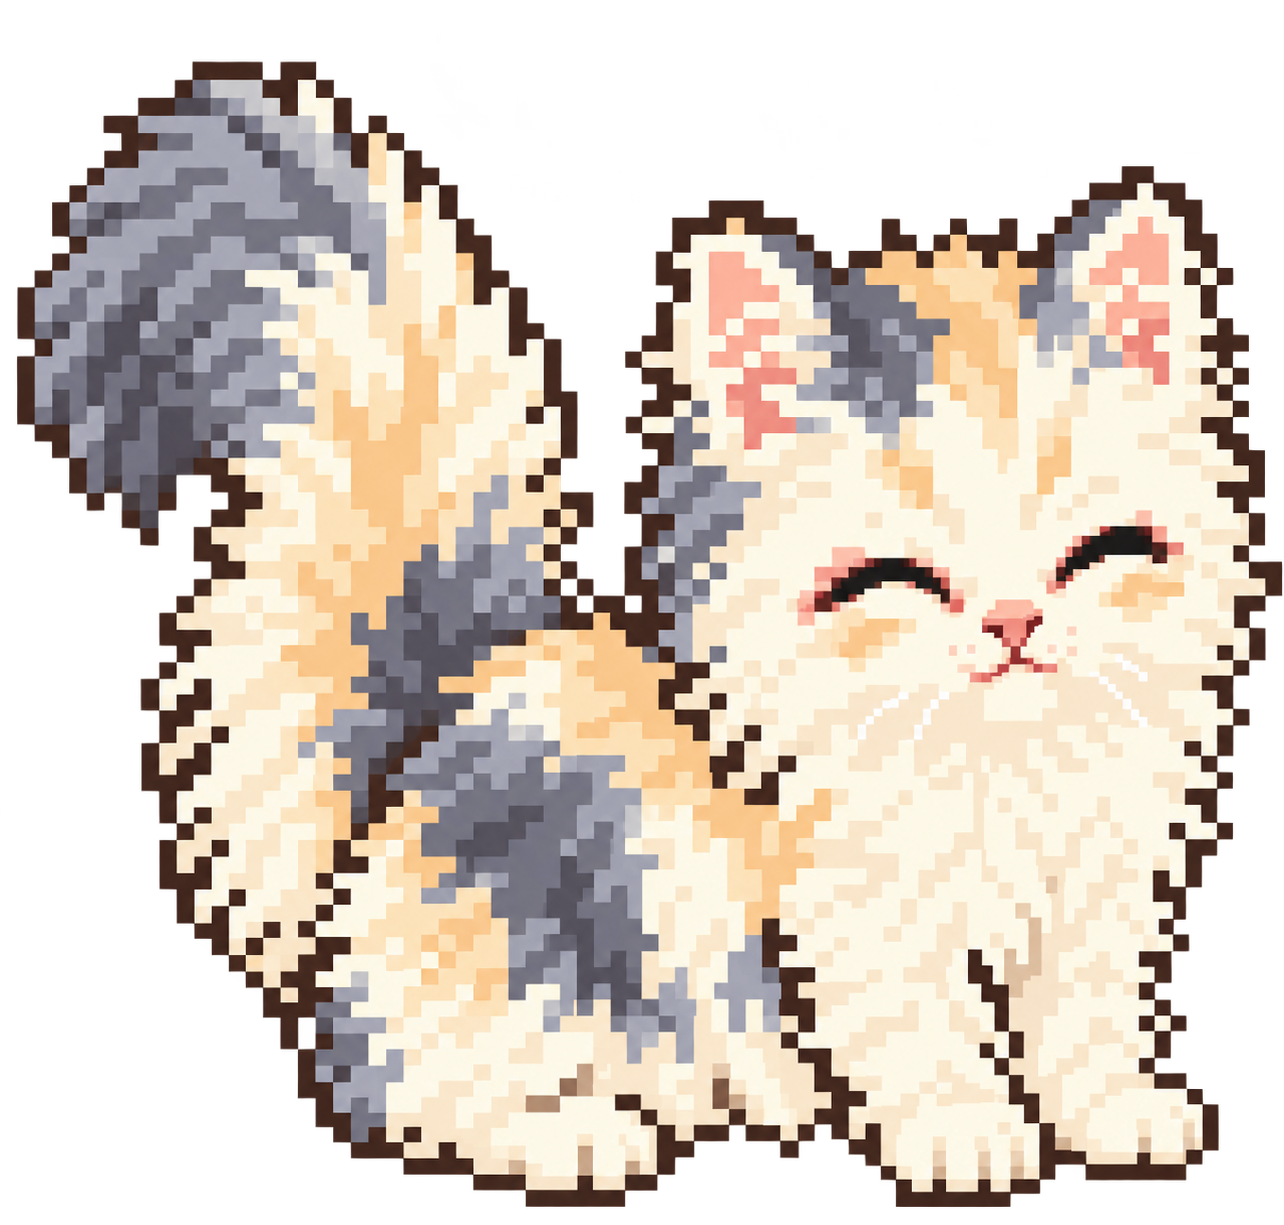
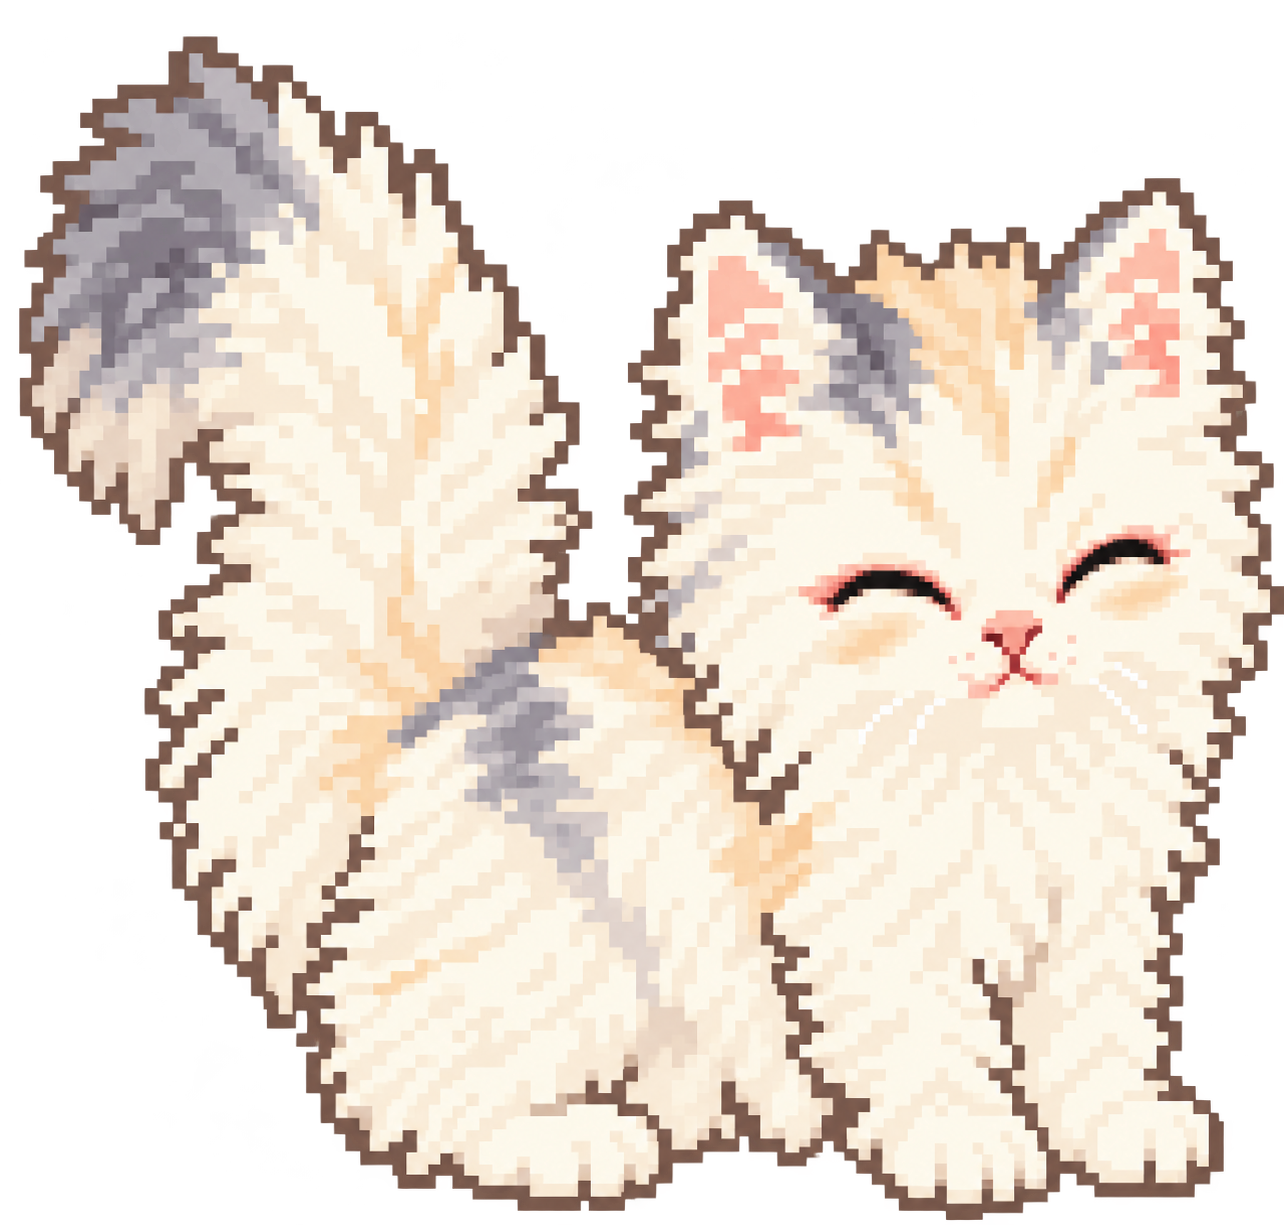
Refine Lucky's ivory pixel markings

diff --git a/app.js b/app.js
@@ -1,5 +1,5 @@
-import { site, notes } from './content.js?v=lucky-pixel-1';
-import { renderAlbum, mountAlbum, destroyAlbum } from './album.js?v=lucky-pixel-1';
+import { site, notes } from './content.js?v=lucky-pixel-2';
+import { renderAlbum, mountAlbum, destroyAlbum } from './album.js?v=lucky-pixel-2';
 
 const main = document.querySelector('main');
 const dialog = document.querySelector('.lightbox');
@@ -15,9 +15,9 @@ const albumCount = `${String(notes.filter(note => note.video).length).padStart(2
 
 function renderCharacter() {
   return `<section class="character-view" aria-labelledby="character-title">
-    <div class="character-hero"><div class="character-copy"><p class="character-kicker">LUCKY / PIXEL PORTRAIT</p><h1 id="character-title">Lucky 的<br>像素模样</h1><p class="character-lead">三个月大的三花小姑娘，奶白色的长毛间藏着烟灰与浅杏。照着她的照片，一格一格留下圆眼睛、粉鼻子，还有那条长长的蓬松尾巴。</p><ul class="character-traits" aria-label="Lucky 的特征"><li>三个月</li><li>母三花</li><li>长尾巴</li></ul><a class="character-back" href="#/">回到相册 <span aria-hidden="true">↗</span></a></div><figure class="character-portrait"><img src="assets/lucky-pixel-idle.png" alt="Lucky 本猫的像素形象：四脚站着的长毛小三花，奶白色为主，带烟灰和浅杏斑块、粉色鼻子，完整的灰尖蓬松长尾巴向上弯起" width="1284" height="1225"><figcaption>根据 Lucky 照片创作的像素小猫</figcaption></figure></div>
+    <div class="character-hero"><div class="character-copy"><p class="character-kicker">LUCKY / PIXEL PORTRAIT</p><h1 id="character-title">Lucky 的<br>像素模样</h1><p class="character-lead">三个月大的三花小姑娘，奶白色的长毛间藏着烟灰与浅杏。照着她的照片，一格一格留下圆眼睛、粉鼻子，还有那条长长的蓬松尾巴。</p><ul class="character-traits" aria-label="Lucky 的特征"><li>三个月</li><li>母三花</li><li>长尾巴</li></ul><a class="character-back" href="#/">回到相册 <span aria-hidden="true">↗</span></a></div><figure class="character-portrait"><img src="assets/lucky-pixel-idle.png?v=2" alt="Lucky 本猫的像素形象：四脚站着的长毛小三花，奶白色为主，带烟灰和浅杏斑块、粉色鼻子，完整的灰尖蓬松长尾巴向上弯起" width="1284" height="1225"><figcaption>根据 Lucky 照片创作的像素小猫</figcaption></figure></div>
     <div class="character-origin"><div class="character-origin-photos"><figure><img src="assets/lucky-photo-03.jpg" alt="真实的 Lucky 仰面躺着，露出粉色鼻子与毛茸茸的爪子" width="719" height="1280" loading="lazy"><figcaption>圆脸和小爪爪</figcaption></figure><figure><img src="assets/lucky-photo-09.jpg" alt="真实的 Lucky 站在桌边，可以看到身上的三花斑块和长尾巴" width="720" height="1280" loading="lazy"><figcaption>三花与长尾巴</figcaption></figure></div><div class="character-origin-copy"><p class="character-kicker">A LITTLE BIT OF LUCKY</p><h2>一眼就认得出你</h2><p>奶白色绒毛、灰色耳尖与背上的浅杏斑块，都从 Lucky 的照片里仔细找来。像素形象保留四脚幼猫的模样，也把灰尖长尾巴完整画了出来。</p><a href="#/notes">去看 Lucky 的真实日常 <span aria-hidden="true">↗</span></a></div></div>
-    <div class="character-stickers"><div class="character-stickers-heading"><p class="character-kicker">LUCKY / PIXEL MOMENTS</p><h2>Lucky 的像素小表情</h2><p>抬抬爪，再打个小盹。</p></div><div class="character-sticker-grid"><figure><img src="assets/lucky-pixel-hello.png" alt="像素小三花 Lucky 抬起一只前爪，蓬松的长尾巴露在身旁" loading="lazy"><figcaption>你好呀</figcaption></figure><figure><img src="assets/lucky-pixel-sleep.png" alt="像素小三花 Lucky 闭眼蜷卧，灰尖长尾巴蜷在身边" loading="lazy"><figcaption>困困啦</figcaption></figure></div></div>
+    <div class="character-stickers"><div class="character-stickers-heading"><p class="character-kicker">LUCKY / PIXEL MOMENTS</p><h2>Lucky 的像素小表情</h2><p>抬抬爪，再打个小盹。</p></div><div class="character-sticker-grid"><figure><img src="assets/lucky-pixel-hello.png?v=2" alt="像素小三花 Lucky 抬起一只前爪，蓬松的长尾巴露在身旁" loading="lazy"><figcaption>你好呀</figcaption></figure><figure><img src="assets/lucky-pixel-sleep.png?v=2" alt="像素小三花 Lucky 闭眼蜷卧，灰尖长尾巴蜷在身边" loading="lazy"><figcaption>困困啦</figcaption></figure></div></div>
   </section>`;
 }
 

diff --git a/album.js b/album.js
@@ -1,4 +1,4 @@
-import { notes } from './content.js?v=lucky-pixel-1';
+import { notes } from './content.js?v=lucky-pixel-2';
 
 const reduced = window.matchMedia?.('(prefers-reduced-motion: reduce)');
 const finePointer = window.matchMedia?.('(hover: hover) and (pointer: fine)');
@@ -57,7 +57,7 @@ function cover() {
     <p class="cover-edition">THE LITTLE ALBUM · 2026</p><h2 class="cover-title">Lucky<span>的日常</span></h2><p class="cover-description">有 Lucky 的普通日子。</p>
     <button class="cover-open" type="button" data-book-action="open">翻开相册</button><button class="cover-skip" type="button" data-book-action="skip">直接浏览</button><a class="cover-character-link" href="#/character">认识画里的 Lucky <span aria-hidden="true">↗</span></a>
     <p class="cover-count">${number(notes.length)} 个片段 · ${number(videoCount)} 段视频 · ${number(photoCount)} 张照片</p>
-    </div><div class="cover-collage" aria-hidden="true"><div class="cover-photo cover-photo-main"><img src="${portrait.photo}" alt="" width="${portrait.width}" height="${portrait.height}" draggable="false"><span>hello, Lucky.</span></div><div class="cover-photo cover-photo-character"><img src="assets/lucky-pixel-idle.png" alt="" width="1284" height="1225" draggable="false"><span>像素 Lucky</span></div></div>
+    </div><div class="cover-collage" aria-hidden="true"><div class="cover-photo cover-photo-main"><img src="${portrait.photo}" alt="" width="${portrait.width}" height="${portrait.height}" draggable="false"><span>hello, Lucky.</span></div><div class="cover-photo cover-photo-character"><img src="assets/lucky-pixel-idle.png?v=2" alt="" width="1284" height="1225" draggable="false"><span>像素 Lucky</span></div></div>
     </div></div>`;
 }
 
@@ -68,7 +68,7 @@ export function renderAlbum() {
   const visible=items.slice(page*4,page*4+4);
   return `<section class="album-experience" aria-label="Lucky 的贴纸相册">
     <div class="album-heading"><div><p class="eyebrow">A LITTLE COLLECTION</p><h1>Lucky 的小相册</h1></div><span class="album-total">${videoCount} 段视频 · ${photoCount} 张照片</span></div>
-    <a class="character-teaser" href="#/character"><span class="character-teaser-art"><img src="assets/lucky-pixel-hello.png" alt="" width="1284" height="1225"></span><span class="character-teaser-copy"><strong>像素 Lucky</strong><span>认识三花小姑娘的像素形象</span></span><span class="character-teaser-arrow" aria-hidden="true">↗</span></a>
+    <a class="character-teaser" href="#/character"><span class="character-teaser-art"><img src="assets/lucky-pixel-hello.png?v=2" alt="" width="1284" height="1225"></span><span class="character-teaser-copy"><strong>像素 Lucky</strong><span>认识三花小姑娘的像素形象</span></span><span class="character-teaser-arrow" aria-hidden="true">↗</span></a>
     <div class="chapter-tabs" role="group" aria-label="相册章节">${chapters.map((item,index)=>`<button type="button" class="chapter-tab" data-chapter="${item.id}" aria-pressed="${item.id===chapter}"><span class="chapter-index">${number(index)}</span>${escape(item.name)}</button>`).join('')}</div>
     <div class="book-stage ${opened?'is-open':'is-closed'} ${opening?'is-opening':''}" tabindex="0" aria-label="相册第 ${page+1} 页，共 ${pages} 页，使用方向键翻页">
       <div class="book-spread" ${opened?'':'inert aria-hidden="true"'}>${bookPage(visible.slice(0,2),'left')}${bookPage(visible.slice(2),'right')}</div>

diff --git a/index.html b/index.html
@@ -8,10 +8,10 @@
   <meta name="description" content="Lucky 的小相册：三个月大的长尾三花小姑娘，照片、视频、像素形象和会互动的网页小猫。">
   <link rel="icon" href="assets/favicon.svg" type="image/svg+xml">
   <link rel="stylesheet" href="styles.css">
-  <link rel="stylesheet" href="album.css?v=lucky-pixel-1">
-  <link rel="stylesheet" href="pet.css?v=lucky-pixel-1">
-  <script type="module" src="app.js?v=lucky-pixel-1"></script>
-  <script type="module" src="pet.js?v=lucky-pixel-1"></script>
+  <link rel="stylesheet" href="album.css?v=lucky-pixel-2">
+  <link rel="stylesheet" href="pet.css?v=lucky-pixel-2">
+  <script type="module" src="app.js?v=lucky-pixel-2"></script>
+  <script type="module" src="pet.js?v=lucky-pixel-2"></script>
 </head>
 <body>
   <a class="skip-link" href="#main">跳到内容</a>

diff --git a/pet.js b/pet.js
@@ -2,11 +2,11 @@
 // and whether the visitor chose to keep the widget visible or quiet.
 const STORAGE_KEY = 'lucky-web-pet-v1';
 const SPRITES = Object.freeze({
-  idle: 'assets/lucky-pixel-idle.png',
-  blink: 'assets/lucky-pixel-blink.png',
-  hello: 'assets/lucky-pixel-hello.png',
-  play: 'assets/lucky-pixel-play.png',
-  sleep: 'assets/lucky-pixel-sleep.png'
+  idle: 'assets/lucky-pixel-idle.png?v=2',
+  blink: 'assets/lucky-pixel-blink.png?v=2',
+  hello: 'assets/lucky-pixel-hello.png?v=2',
+  play: 'assets/lucky-pixel-play.png?v=2',
+  sleep: 'assets/lucky-pixel-sleep.png?v=2'
 });
 let saved = {};
 try { saved = JSON.parse(localStorage.getItem(STORAGE_KEY)) || {}; } catch { /* Storage can be unavailable. */ }
